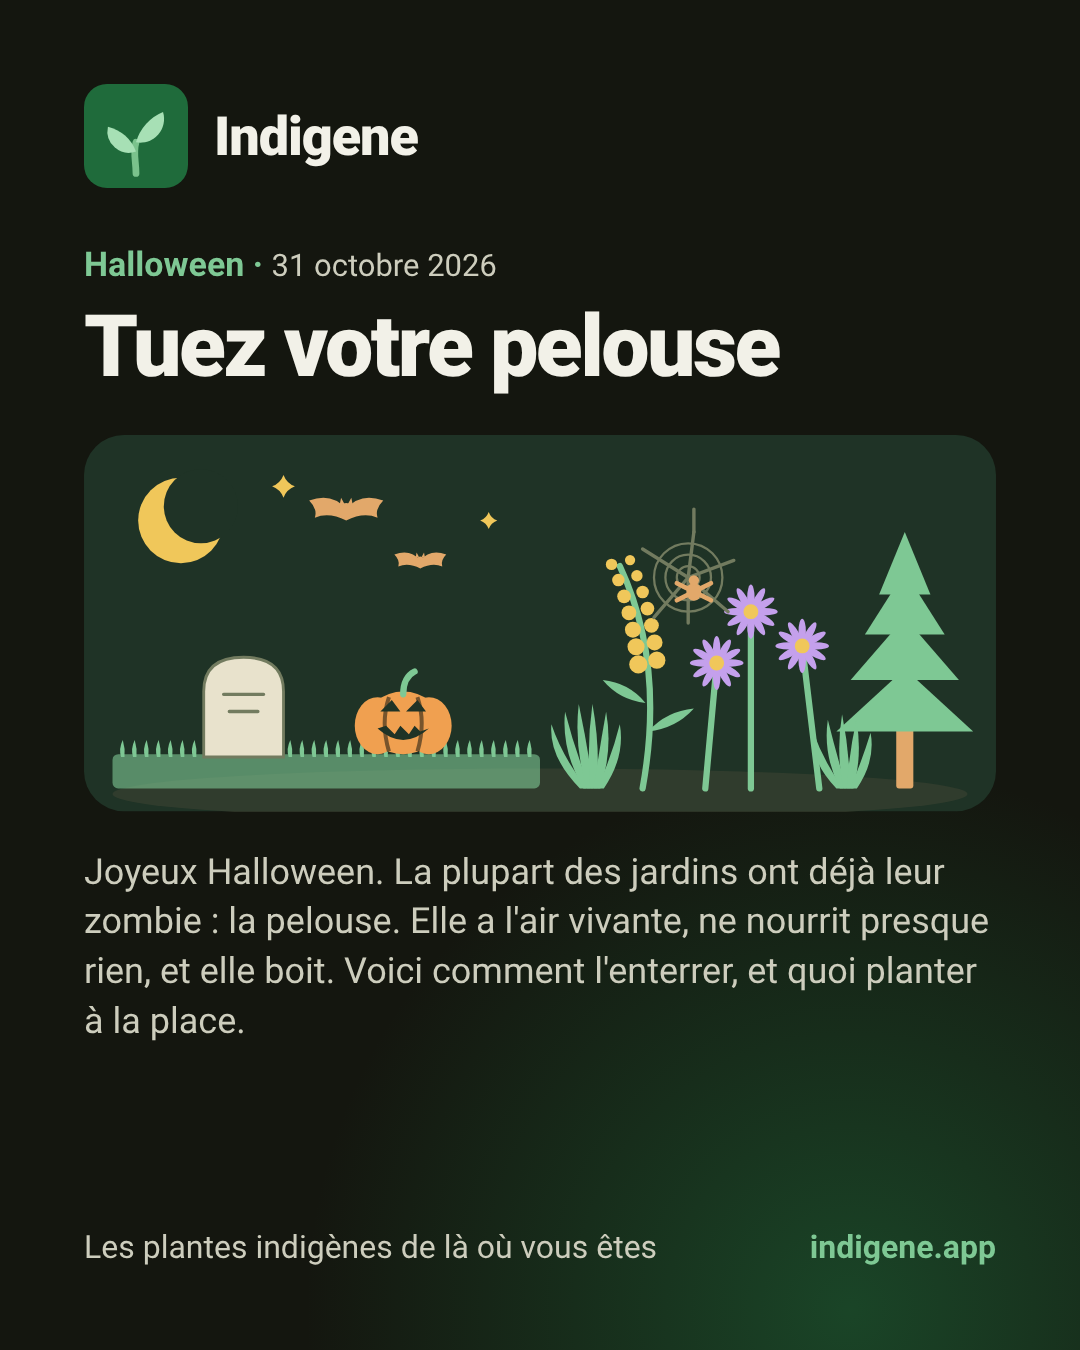
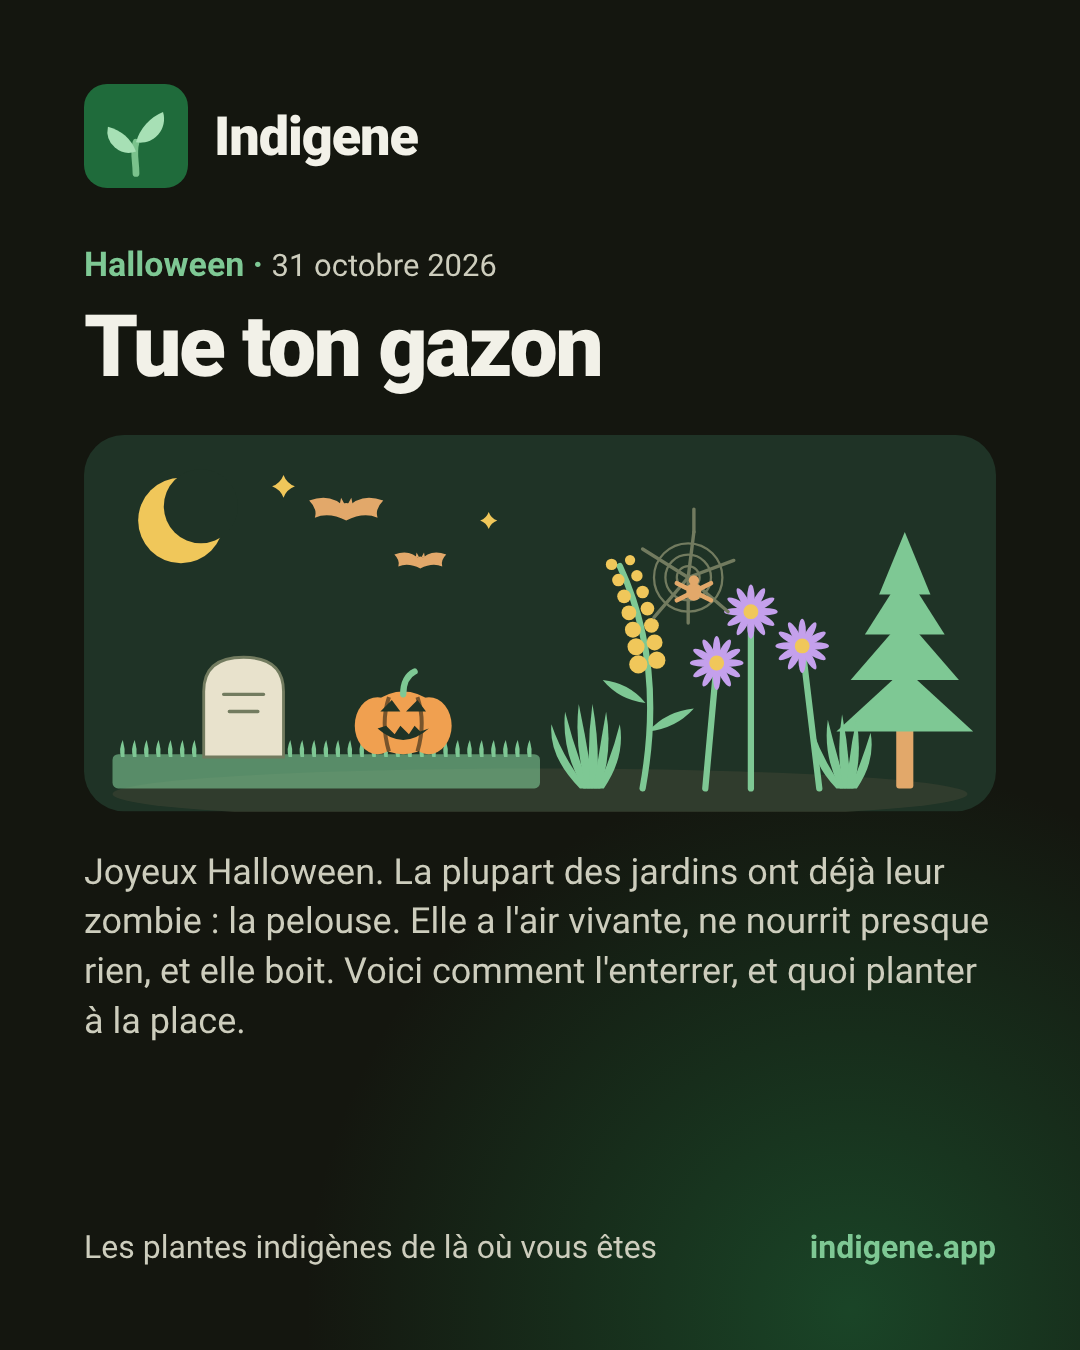
Lawn page: lights and inflatables on a timer; French title Tue ton gazon
Keep the decorations; turn the lights off at 11 pm for birds migrating at
night (Audubon North Carolina: off 11 pm to 6 am through November 30).
The French title is the slogan's « tu »; the page keeps « vous ».

Claude-Session: https://claude.ai/code/session_01XmYx6ZjC43EaXvznjpcMVY

Changed region(s): [[0.2139, 0.2178, 0.7333, 0.3111]]

diff --git a/app/src/locales/fr.ts b/app/src/locales/fr.ts
@@ -3112,10 +3112,11 @@ export const fr: Dict = {
   "about.whyHomegrown": "L'idée qui le porte est celle de Doug Tallamy : {link}.",
   "about.homegrownLink": "Homegrown National Park",
 
-  // « Tuez votre pelouse » (steps/lawn.ts).
-  "steps.lawn": "Tuez votre pelouse",
-  "posts.halloween2026.docTitle": "Tuez votre pelouse · Indigene",
-  "posts.halloween2026.title": "Tuez votre pelouse",
+  // « Tue ton gazon » (steps/lawn.ts). The title is a slogan, so it says « tu »
+  // the way a placard would; the page under it says « vous » like every other.
+  "steps.lawn": "Tue ton gazon",
+  "posts.halloween2026.docTitle": "Tue ton gazon · Indigene",
+  "posts.halloween2026.title": "Tue ton gazon",
   "posts.halloween2026.occasion": "Halloween",
   "posts.halloween2026.lede": "Joyeux Halloween. La plupart des jardins ont déjà leur zombie : la pelouse. Elle a l'air vivante, ne nourrit presque rien, et elle boit. Voici comment l'enterrer, et quoi planter à la place.",
   "lawn.zombieTitle": "La pelouse est un zombie",
@@ -3123,6 +3124,9 @@ export const fr: Dict = {
   "lawn.zombie2": "Elle reste verte à coups d'engrais et de désherbant, et l'eau en trop emporte l'engrais jusqu'aux rivières. Dans la nature, rien ne pousse en une seule plante, à une seule hauteur, d'un mur à l'autre. La contenir chaque week-end, c'est beaucoup de travail, pas une vertu.",
   "lawn.zombie3": "Pendant ce temps, les chenilles, les abeilles et les oiseaux qui font le printemps manquent de nourriture. Et nous accrochons des araignées en plastique et des toiles en polyester qui piègent passereaux, chouettes et vraies araignées. Les nourrir à la place, c'est l'idée du {homegrown}.",
   "lawn.zombie3Link": "Homegrown National Park",
+  "lawn.lightsTitle": "Lumières et décors gonflables sur minuterie",
+  "lawn.lights": "Gardez les citrouilles lumineuses et le fantôme gonflable géant. Programmez simplement une minuterie pour les éteindre à 23 h. La plupart des oiseaux migrent de nuit, guidés par la lune et les étoiles, et les lumières les égarent et les envoient contre les vitres. Éteint jusqu'à 6 h, tout le mois de novembre, et vous retrouvez les étoiles en prime.",
+  "lawn.src.audubon": "l'éclairage, la migration de nuit et la plage de 23 h à 6 h",
   "lawn.mulchTitle": "L'enterrer sous du carton",
   "lawn.mulchLede": "Le paillage en feuillets tue le gazon en le privant de lumière. Pas de bêchage, pas de poison, et la pelouse morte devient de la terre. Commencez cet automne et tout sera prêt à planter au printemps.",
   "lawn.mulch1": "Tondez aussi ras que possible et laissez l'herbe coupée sur place. Arrosez bien.",

diff --git a/app/src/steps/lawn.ts b/app/src/steps/lawn.ts
@@ -2,7 +2,8 @@
 // the Halloween post, and a guide that outlives the holiday.
 //
 // The joke carries one sentence: a lawn is a zombie, green and feeding almost
-// nothing, and it drinks. Then the page gets to work: how to bury a lawn under
+// nothing, and it drinks. The decorations stay — only the lights go on a
+// timer, for the birds migrating overhead. Then the page gets to work: how to bury a lawn under
 // cardboard (sheet mulching, after UC and Oregon State Extension), how to do it
 // a bed at a time, and what to plant, layer by layer, for the reader's region.
 //
@@ -51,6 +52,11 @@ const SOURCES: { name: string; url: string; what: TKey }[] = [
   // "Many of these webs you'll find are made out of a polyester-like
   // material, which is a petroleum-based product."
   { name: "City of Hayward — Eco-Friendly Halloween", url: "https://hayward-ca.gov/discover/news/sep24/eco-friendly-halloween", what: "lawn.src.hayward" },
+  // "These and other birds migrate mostly at night, using the moon and stars
+  // to navigate"; "artificial lights at night can disorient and distract
+  // birds"; "Turn off exterior decorative lighting from 11pm to 6am now
+  // through November 30."
+  { name: "Audubon North Carolina — Turn off lights at night to reduce risk for migrating birds", url: "https://www.audubon.org/north-carolina/press-room/turn-lights-night-reduce-risk-migrating-birds", what: "lawn.src.audubon" },
   // "Mow the lawn short as your mower will go and leave the grass on the
   // lawn"; overlap "each edge by 6 inches"; wood chips "3 inches" (4–6 on
   // warm-season lawns); "Green-in-winter lawns take 1 to 3 months.
@@ -135,6 +141,9 @@ export async function renderLawn(main: HTMLElement, param?: string): Promise<voi
       el("p", {}, tx("lawn.zombie3", {
         homegrown: el("a", { href: "#/homegrown" }, t("lawn.zombie3Link")),
       })),
+
+      el("h3", {}, t("lawn.lightsTitle")),
+      p("lawn.lights"),
 
       el("h3", {}, t("lawn.mulchTitle")),
       p("lawn.mulchLede"),

diff --git a/app/src/locales/en.ts b/app/src/locales/en.ts
@@ -3200,6 +3200,9 @@ export const en = {
   "lawn.zombie2": "It stays green on fertilizer and weedkiller, and the extra water washes the fertilizer into streams. Nothing in nature grows as one plant at one height, wall to wall. Holding that back every weekend is a lot of work, not a virtue.",
   "lawn.zombie3": "Meanwhile the caterpillars, bees and birds that make spring are short of food. And we hang plastic spiders and polyester cobwebs that trap songbirds, owls and real spiders. Feeding them instead is the {homegrown} idea.",
   "lawn.zombie3Link": "Homegrown National Park",
+  "lawn.lightsTitle": "Lights and inflatables on a timer",
+  "lawn.lights": "Keep the glowing pumpkins and the giant inflatable ghoul. Just set a timer to turn them off at 11 pm. Most birds migrate at night, steering by the moon and stars, and lights lead them off course and into windows. Lights out until 6 am, through November, and you get the stars back too.",
+  "lawn.src.audubon": "lights, night migration, and the 11 pm to 6 am window",
   "lawn.mulchTitle": "Bury it under cardboard",
   "lawn.mulchLede": "Sheet mulching kills grass by keeping it in the dark. No digging, no poison, and the dead lawn turns into soil. Start this fall and it's ready to plant by spring.",
   "lawn.mulch1": "Mow as short as the mower goes, and leave the clippings. Water well.",

diff --git a/docs/outreach/kill-your-lawn-post.md b/docs/outreach/kill-your-lawn-post.md
@@ -32,8 +32,8 @@ sticker in the clear band under the text.
 >
 > Easy natives for your region: link in bio → indigene.app/kill-your-lawn
 >
-> 🕸 And keep the fake cobwebs indoors. They trap songbirds, owls and real
-> spiders.
+> 🎃 Keep the inflatable ghoul. Just put the lights on a timer, off at 11 pm:
+> birds migrate at night by the stars. 🕸 And keep the fake cobwebs indoors.
 >
 > #KillYourLawn #NativePlants #Halloween #SheetMulching #HomegrownNationalPark #NoMowMay
 
@@ -50,10 +50,11 @@ sticker in the clear band under the text.
 > Des plantes indigènes faciles pour votre région : lien en bio →
 > indigene.app/kill-your-lawn
 >
-> 🕸 Et gardez les fausses toiles d'araignée à l'intérieur : elles piègent
-> passereaux, chouettes et vraies araignées.
+> 🎃 Gardez le fantôme gonflable. Mettez juste les lumières sur minuterie,
+> éteintes à 23 h : les oiseaux migrent de nuit, guidés par les étoiles.
+> 🕸 Et gardez les fausses toiles d'araignée à l'intérieur.
 >
-> #TuezVotrePelouse #PlantesIndigènes #Halloween #Paillage #JardinSauvage
+> #TueTonGazon #PlantesIndigènes #Halloween #Paillage #JardinSauvage
 
 ## Alt text
 
@@ -65,7 +66,8 @@ sticker in the clear band under the text.
 ## Notes
 
 - Every figure in the caption is on the page with its source (EPA WaterSense
-  for the water; Will County Forest Preserve for the webs). Don't add one that
+  for the water; Will County Forest Preserve for the webs; Audubon North
+  Carolina for the lights). Don't add one that
   isn't.
 - The US water figure doesn't hold for every reader. The French caption leaves
   it out rather than borrow an American number.

diff --git a/changelog.d/claude-kill-your-lawn-page-rznar3.md b/changelog.d/claude-kill-your-lawn-page-rznar3.md
@@ -1,4 +1,4 @@
 ### Added
 
-- **A Halloween post: [Kill your lawn](https://indigene.app/kill-your-lawn).** How to bury a lawn under cardboard, swap it a bed at a time, and which easy natives to plant in its place, for each region: ground cover, wildflowers, shrubs, trees and evergreens.
+- **A Halloween post: [Kill your lawn](https://indigene.app/kill-your-lawn).** How to bury a lawn under cardboard and which easy natives to plant instead, region by region: ground cover, wildflowers, shrubs, trees and evergreens. Plus a timer for Halloween lights, for birds migrating at night.
 - Internal: `steps/lawn.ts` at `kill-your-lawn` and `kill-your-lawn/<region>` (prerendered, in 404.html, own share card); picks from `lib/lawn.ts` (establishment score, then caterpillar count; no thorny plants; spreaders only on the ground) with `data/evergreen.ts` for the winter row. `Post.route` lets a post live at the top level. `gen-story.mjs` draws page drawings and a 1080×1350 feed post (`--feed`).
